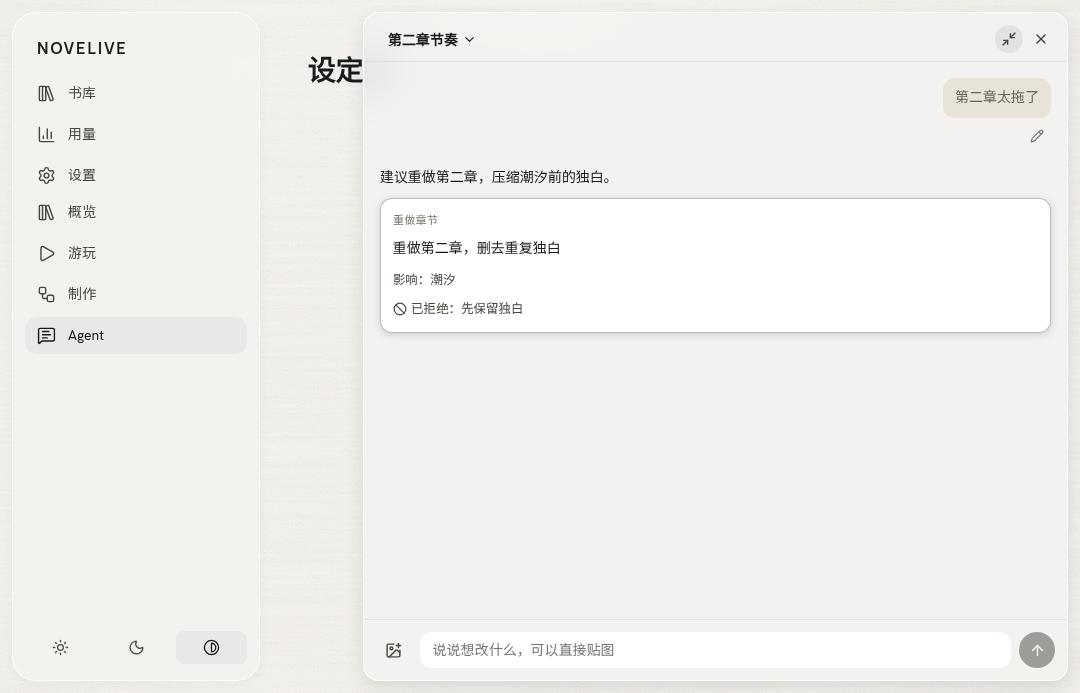
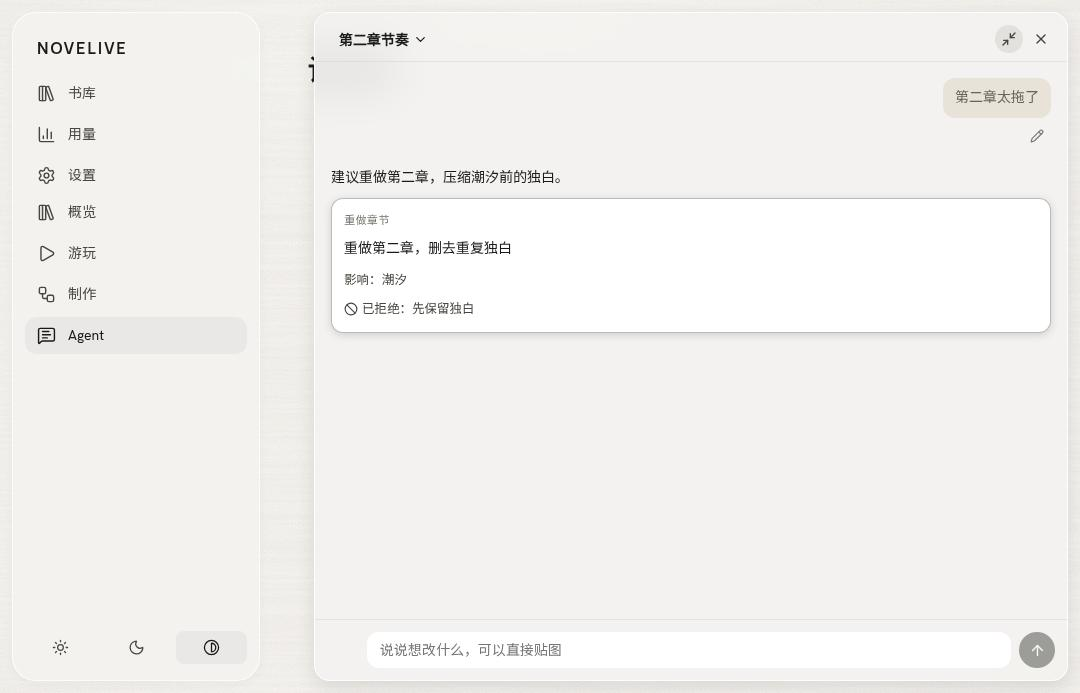
Address Agent panel review findings
Share one pending session creation across a multi-image upload, keep
images when resending an edited message, treat a failed read-back after
an accepted send as a refresh error, focus the panel on open so Escape
closes it, release pending image URLs on unmount and session switch,
add the expanded input editor, give secondary textareas overlay
scrollbars, and time the spinner from motion tokens.

Changed region(s): [[0.3056, 0.2424, 0.55, 0.4848], [0.3361, 0.9091, 0.5806, 0.9697], [0.275, 0.0303, 0.4278, 0.1212]]

diff --git a/packages/ui/src/panels/agent/Composer.tsx b/packages/ui/src/panels/agent/Composer.tsx
@@ -1,5 +1,12 @@
-import { ArrowUp, ImagePlus, Square, X } from 'lucide-react'
-import { useLayoutEffect, useRef, useState } from 'react'
+import {
+	ArrowUp,
+	ImagePlus,
+	Maximize2,
+	Minimize2,
+	Square,
+	X,
+} from 'lucide-react'
+import { useEffect, useLayoutEffect, useRef, useState } from 'react'
 import { OverlayScrollbar } from '../../components/ScrollArea'
 import styles from './AgentPanel.module.css'
 import type { Attachment } from './session'
@@ -9,6 +16,7 @@ type Pending = { attachment: Attachment; url: string }
 
 export function Composer({
 	streaming,
+	sessionId,
 	disabled,
 	onAttach,
 	onSend,
@@ -16,6 +24,7 @@ export function Composer({
 	onPreview,
 }: {
 	streaming: boolean
+	sessionId: string | null
 	disabled: boolean
 	onAttach(file: File): Promise<Attachment>
 	onSend(text: string, attachmentIds: string[]): Promise<void>
@@ -28,14 +37,46 @@ export function Composer({
 	const [error, setError] = useState('')
 	const input = useRef<HTMLTextAreaElement>(null)
 	const picker = useRef<HTMLInputElement>(null)
+	const [expanded, setExpanded] = useState(false)
+	const [capped, setCapped] = useState(false)
+	const [panelHeight, setPanelHeight] = useState(0)
+	const kept = useRef(pending)
+	kept.current = pending
+	const owner = useRef(sessionId)
 
+	useEffect(
+		() => () => {
+			for (const item of kept.current) URL.revokeObjectURL(item.url)
+		},
+		[],
+	)
+	useEffect(() => {
+		if (owner.current && owner.current !== sessionId)
+			setPending((list) => {
+				for (const item of list) URL.revokeObjectURL(item.url)
+				return []
+			})
+		owner.current = sessionId
+	}, [sessionId])
+	useEffect(() => {
+		const panel = input.current?.closest('aside')
+		if (!expanded || !panel) return
+		const observer = new ResizeObserver(() =>
+			setPanelHeight(panel.clientHeight),
+		)
+		observer.observe(panel)
+		return () => observer.disconnect()
+	}, [expanded])
 	// biome-ignore lint/correctness/useExhaustiveDependencies: 文字变化时重新量高
 	useLayoutEffect(() => {
 		const element = input.current
 		if (!element) return
 		element.style.height = 'auto'
-		element.style.height = `${Math.min(element.scrollHeight, 168)}px`
-	}, [text])
+		setCapped(element.scrollHeight >= 168)
+		element.style.height = expanded
+			? `${Math.round(panelHeight / 2)}px`
+			: `${Math.min(element.scrollHeight, 168)}px`
+	}, [text, expanded, panelHeight])
 
 	const attach = async (files: File[]) => {
 		const images = files.filter((file) => imageTypes.includes(file.type))
@@ -72,6 +113,7 @@ export function Composer({
 			for (const item of pending) URL.revokeObjectURL(item.url)
 			setPending([])
 			setText('')
+			setExpanded(false)
 		} catch {
 			setError('没能发出，请重试')
 		} finally {
@@ -134,6 +176,8 @@ export function Composer({
 						aria-label="给 Agent 发消息"
 						placeholder="说说想改什么，可以直接贴图"
 						rows={1}
+						data-expanded={expanded}
+						data-capped={capped || expanded}
 						value={text}
 						disabled={disabled}
 						onChange={(event) => setText(event.target.value)}
@@ -156,6 +200,21 @@ export function Composer({
 						}}
 					/>
 					<OverlayScrollbar targetRef={input} />
+					{(capped || expanded) && (
+						<button
+							type="button"
+							className={`${styles.iconButton} ${styles.expand}`}
+							aria-label={expanded ? '收起输入框' : '放大输入框'}
+							title={expanded ? '收起' : '放大'}
+							onClick={() => setExpanded(!expanded)}
+						>
+							{expanded ? (
+								<Minimize2 aria-hidden="true" size={14} />
+							) : (
+								<Maximize2 aria-hidden="true" size={14} />
+							)}
+						</button>
+					)}
 				</div>
 				{streaming ? (
 					<button

diff --git a/packages/ui/src/panels/agent/AgentPanel.tsx b/packages/ui/src/panels/agent/AgentPanel.tsx
@@ -17,6 +17,7 @@ import {
 	type Activity,
 	MessageParts,
 	type ProposalActions,
+	ScrollField,
 } from './MessageView'
 import {
 	branchPath,
@@ -142,20 +143,20 @@ function SessionMenu({ chat, onClose }: { chat: Chat; onClose(): void }) {
 
 function EditBox({
 	initial,
+	allowEmpty,
 	onCancel,
 	onSend,
 }: {
 	initial: string
+	allowEmpty: boolean
 	onCancel(): void
 	onSend(text: string): void
 }) {
 	const [text, setText] = useState(initial)
 	return (
 		<div className={styles.editBox}>
-			<textarea
-				// biome-ignore lint/a11y/noAutofocus: 编辑消息时直接进入输入
+			<ScrollField
 				autoFocus
-				className={styles.field}
 				aria-label="编辑消息"
 				rows={3}
 				value={text}
@@ -168,7 +169,7 @@ function EditBox({
 				<button
 					type="button"
 					className={styles.primary}
-					disabled={!text.trim()}
+					disabled={!allowEmpty && !text.trim()}
 					onClick={() => onSend(text.trim())}
 				>
 					重新发送
@@ -196,12 +197,14 @@ export function AgentPanel({
 	const [menu, setMenu] = useState(false)
 	const [editing, setEditing] = useState<string>()
 	const [preview, setPreview] = useState<{ src: string; name: string }>()
+	const panel = useRef<HTMLElement>(null)
 	const dialog = useRef<HTMLDialogElement>(null)
 	const end = useRef<HTMLDivElement>(null)
 	const path = snapshot ? branchPath(snapshot.entries, snapshot.headId) : []
 	const streaming = snapshot?.status === 'streaming'
 	const last = path.at(-1)
 
+	useEffect(() => panel.current?.focus(), [])
 	useEffect(() => {
 		if (preview) dialog.current?.showModal()
 	}, [preview])
@@ -228,6 +231,8 @@ export function AgentPanel({
 
 	return (
 		<aside
+			ref={panel}
+			tabIndex={-1}
 			className={styles.panel}
 			data-full={full}
 			aria-label="Agent"
@@ -302,6 +307,9 @@ export function AgentPanel({
 							const text = entry.parts
 								.map((part) => (part.type === 'text' ? part.text : ''))
 								.join('')
+							const images = entry.parts.flatMap((part) =>
+								part.type === 'image' ? [part.attachment.id] : [],
+							)
 							const go = (offset: number) => {
 								const target = siblings[index + offset]
 								if (target)
@@ -320,10 +328,11 @@ export function AgentPanel({
 									{editing === entry.id ? (
 										<EditBox
 											initial={text}
+											allowEmpty={images.length > 0}
 											onCancel={() => setEditing(undefined)}
 											onSend={(next) => {
 												setEditing(undefined)
-												void send(next, [], entry.parentId).catch(() =>
+												void send(next, images, entry.parentId).catch(() =>
 													chat.setError('没能重新发送'),
 												)
 											}}
@@ -397,6 +406,7 @@ export function AgentPanel({
 			)}
 			<Composer
 				streaming={streaming}
+				sessionId={snapshot?.session.sessionId ?? null}
 				disabled={!chat.loaded}
 				onAttach={chat.attach}
 				onSend={(text, ids) => send(text, ids, snapshot?.headId ?? null)}

diff --git a/packages/ui/src/panels/agent/session.ts b/packages/ui/src/panels/agent/session.ts
@@ -170,18 +170,26 @@ export function useAgentChat(workId: string) {
 		}
 	}, [workId, load, fail])
 
+	const latest = useRef(snapshot)
+	latest.current = snapshot
+	const creating = useRef<Promise<Snapshot> | null>(null)
+
 	const create = useCallback(async () => {
 		const created = await call('chat.create', { workId })
 		active.current = created.session.sessionId
+		latest.current = created
 		setSnapshot(created)
 		setSessions((list) => [created.session, ...(list ?? [])])
 		return created
 	}, [workId])
 
-	const ensure = useCallback(
-		async () => snapshot ?? (await create()),
-		[snapshot, create],
-	)
+	const ensure = useCallback(async () => {
+		if (latest.current) return latest.current
+		creating.current ??= create().finally(() => {
+			creating.current = null
+		})
+		return creating.current
+	}, [create])
 
 	return {
 		sessions: sessions ?? [],
@@ -241,7 +249,13 @@ export function useAgentChat(workId: string) {
 				...(position ? { position } : {}),
 			})
 			active.current = sessionId
-			const next = await call('chat.get', { workId, sessionId, headId })
+			let next: Snapshot
+			try {
+				next = await call('chat.get', { workId, sessionId, headId })
+			} catch {
+				setError('消息已发出，但没能刷新会话')
+				return
+			}
 			if (active.current === sessionId)
 				setSnapshot((latest) => settle(latest, next, headId))
 			setSessions((list) =>

diff --git a/packages/ui/src/panels/agent/MessageView.tsx b/packages/ui/src/panels/agent/MessageView.tsx
@@ -9,9 +9,10 @@ import {
 	LoaderCircle,
 	Wrench,
 } from 'lucide-react'
-import { useState } from 'react'
+import { type ComponentProps, useRef, useState } from 'react'
 import { Streamdown } from 'streamdown'
 import { Collapse } from '../../components/Collapse'
+import { OverlayScrollbar } from '../../components/ScrollArea'
 import styles from './AgentPanel.module.css'
 import type { Attachment, Part } from './session'
 
@@ -139,6 +140,16 @@ const subtaskLabels = {
 	cancelled: '已取消',
 }
 
+export function ScrollField(props: ComponentProps<'textarea'>) {
+	const field = useRef<HTMLTextAreaElement>(null)
+	return (
+		<div className={styles.fieldWrap}>
+			<textarea ref={field} className={styles.field} {...props} />
+			<OverlayScrollbar targetRef={field} />
+		</div>
+	)
+}
+
 function ProposalCard({
 	proposal,
 	actions,
@@ -202,8 +213,7 @@ function ProposalCard({
 				</p>
 			) : rejecting ? (
 				<div className={styles.rejectBox}>
-					<textarea
-						className={styles.field}
+					<ScrollField
 						aria-label="拒绝理由"
 						placeholder="理由（可不填），Agent 会据此调整"
 						rows={2}

diff --git a/packages/ui/src/panels/agent/AgentPanel.module.css b/packages/ui/src/panels/agent/AgentPanel.module.css
@@ -1,3 +1,7 @@
+.panel:focus {
+	outline: none;
+}
+
 .panel {
 	position: absolute;
 	inset-block: var(--space-3);
@@ -292,7 +296,7 @@
 .spin {
 	flex-shrink: 0;
 	color: var(--color-primary);
-	animation: spin 900ms linear infinite;
+	animation: spin calc(var(--dur-slow) * 4) linear infinite;
 }
 
 @keyframes spin {
@@ -406,6 +410,13 @@
 	cursor: default;
 }
 
+.fieldWrap {
+	position: relative;
+	display: flex;
+	flex: 1;
+	min-width: 0;
+}
+
 .field {
 	flex: 1;
 	min-width: 0;
@@ -498,6 +509,22 @@
 }
 
 .inputRow > .iconButton,
+.input[data-capped="true"] {
+	padding-inline-end: var(--space-6);
+}
+
+.input[data-expanded="true"] {
+	max-height: none;
+}
+
+.expand {
+	position: absolute;
+	top: var(--space-1);
+	inset-inline-end: var(--space-1);
+	width: 24px;
+	height: 24px;
+}
+
 .send {
 	width: 36px;
 	height: 36px;

diff --git a/tests/e2e/m2-chat.spec.ts b/tests/e2e/m2-chat.spec.ts
@@ -411,6 +411,10 @@ test('M2 chat panel pastes images, shows tools, stops, switches sessions and bra
 			await expect(panel).toHaveAttribute('data-full', 'false')
 			await page.keyboard.press('Control+J')
 			await expect(panel).toHaveCount(0)
+			await page.keyboard.press('Control+J')
+			await expect(panel).toBeVisible()
+			await page.keyboard.press('Escape')
+			await expect(panel).toHaveCount(0)
 		} finally {
 			await app.close()
 		}
